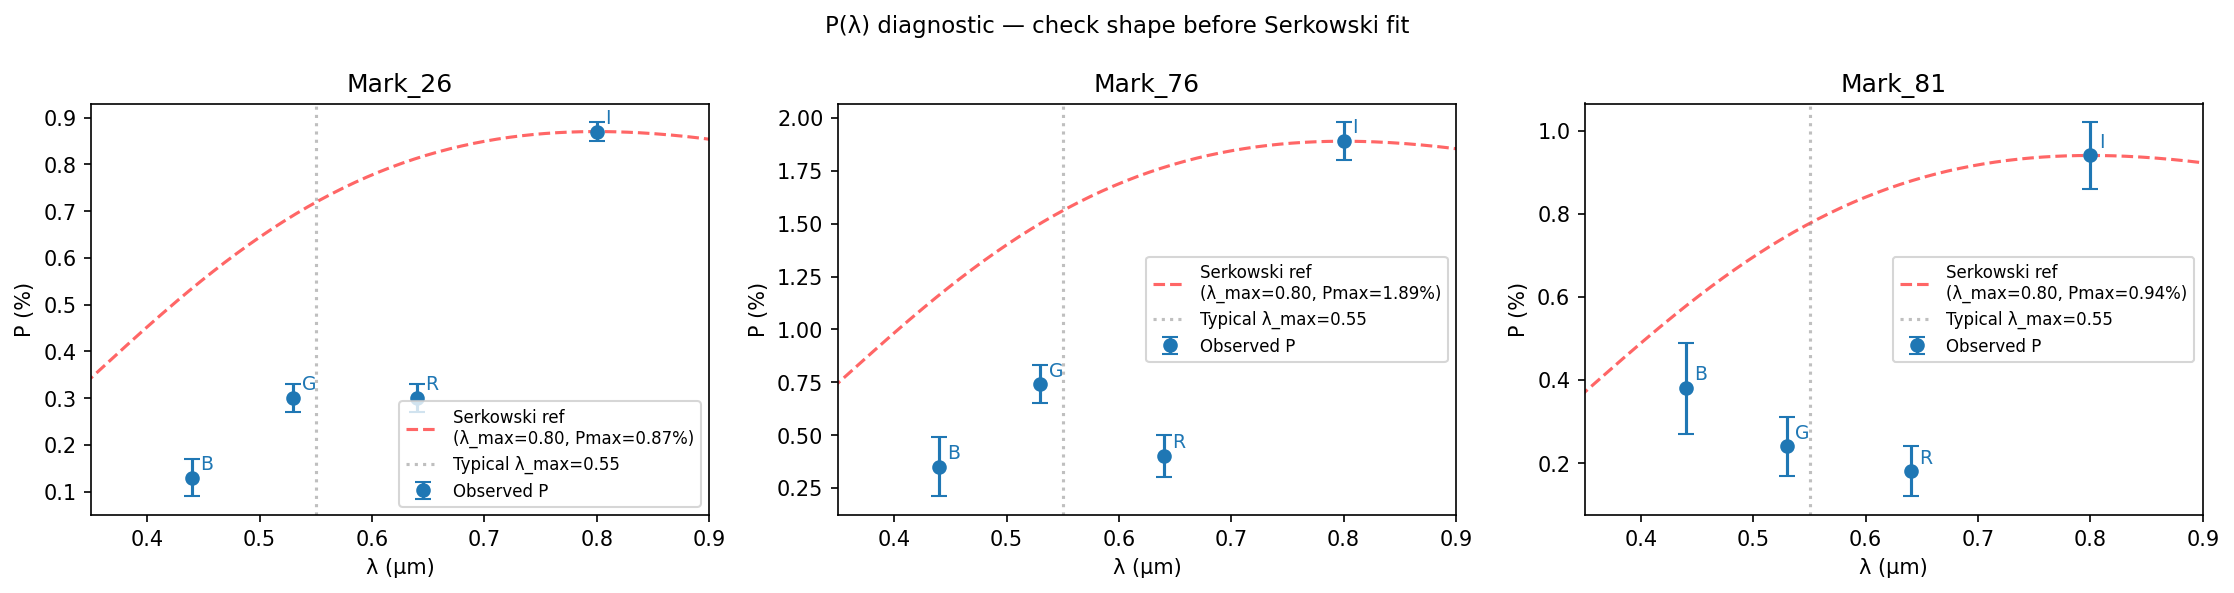
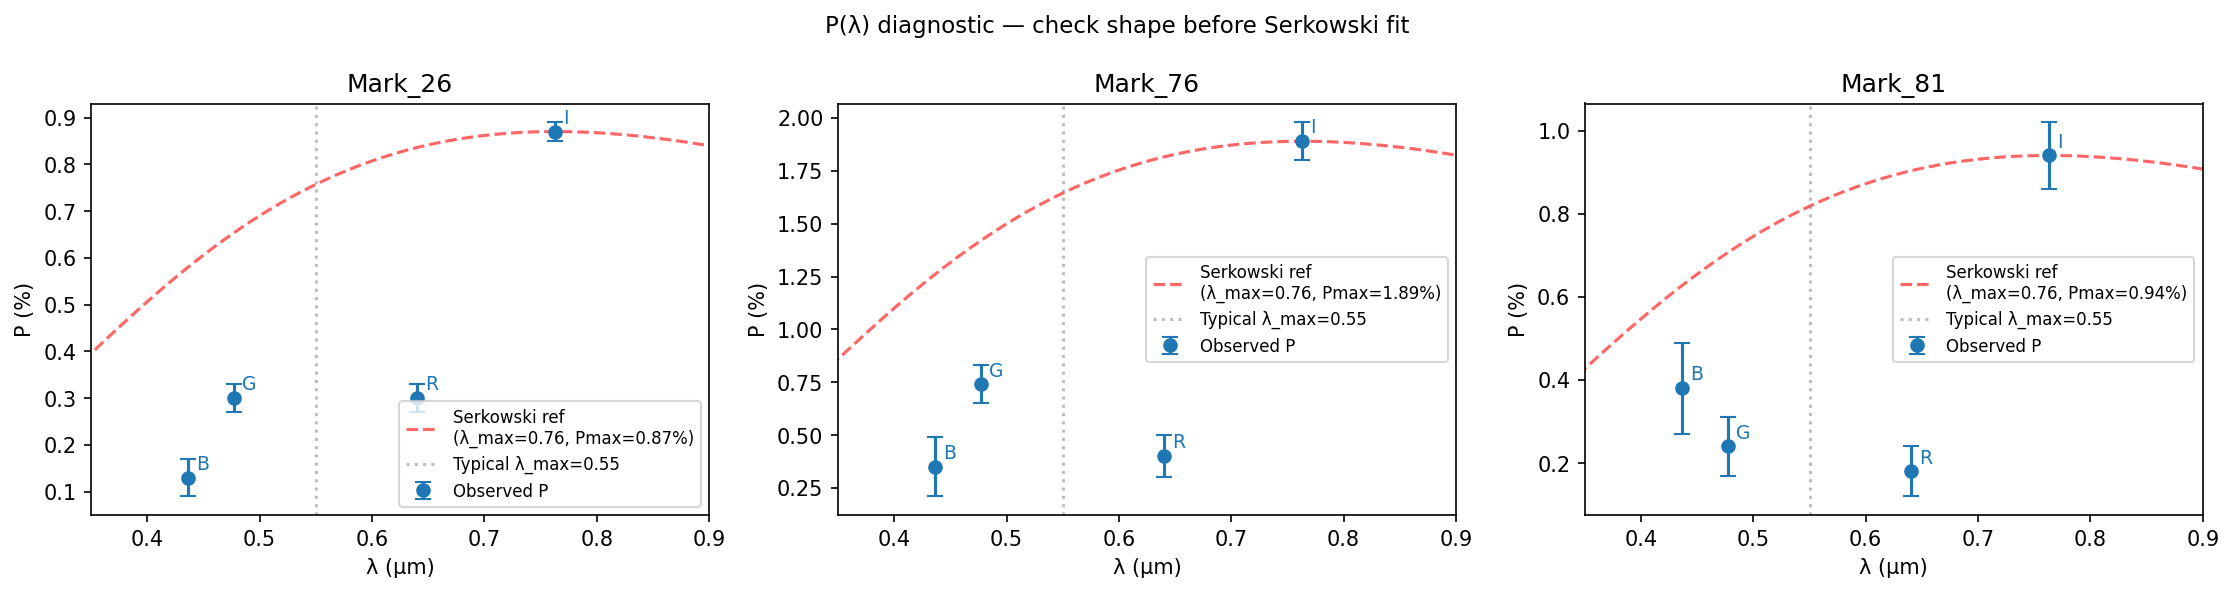
Alter filter wavelenghts

diff --git a/5_serkowski/make_serkowski_inp.py b/5_serkowski/make_serkowski_inp.py
@@ -33,10 +33,10 @@ BAND_FILES = {
 # G (green) — check if it is Cousins V, use 0.530; 
 #             
 LAMBDA_EFF = {
-    "B": 0.440,
-    "G": 0.530,   # confirm this 
-    "R": 0.640,
-    "I": 0.800,
+    "B": 0.436,     #B - Johnson
+    "G": 0.477,     #g - sdss-g' / Sloan  g
+    "R": 0.640,     #R - Cousins
+    "I": 0.763,     #i - sdss-i' / Sloan i
 }
 
 # Which stars to fit. These must appear by name in the .dat files.
@@ -147,7 +147,7 @@ def main():
         print(f"Created/touched {fname}")
 
     print(f"\nDone. Now compile and run the Fortran program:")
-    print(f"  gfortran code.for -o serk")
+    print(f"  gfortran -ffixed-form -ffixed-line-length-132 code_fixed.for -o serk")
     print(f"  ./serk")
     print(f"\nResults will be in out1.txt (summary) and out2.txt (per-point fit).")
 

diff --git a/5_serkowski/check_serkowski_data.py b/5_serkowski/check_serkowski_data.py
@@ -26,10 +26,10 @@ BAND_FILES = {
 
 
 LAMBDA_EFF = {
-    "B": 0.440,
-    "G": 0.530,
-    "R": 0.640,
-    "I": 0.800,
+    "B": 0.436,     #B - Johnson
+    "G": 0.477,     #g - sdss-g' / Sloan  g
+    "R": 0.640,     #R - Cousins
+    "I": 0.763,     #i - sdss-i' / Sloan i
 }
 
 TARGET_STARS = ["Mark_26", "Mark_76", "Mark_81"]

diff --git a/5_serkowski/README.md b/5_serkowski/README.md
@@ -76,10 +76,10 @@ corrected and merged .dat files:
 
 Also check the effective wavelengths in LAMBDA_EFF. The values used here are:
 
-    B = 0.440 micron
-    G = 0.530 micron   
-    R = 0.640 micron
-    I = 0.800 micron
+    B = 0.436 micron        #B - Johnson
+    G = 0.477 micron        #g - sdss-g' / Sloan  g
+    R = 0.640 micron        #R - Cousins
+    I = 0.763 micron        #i - sdss-i' / Sloan i
 
 Then run:
 
